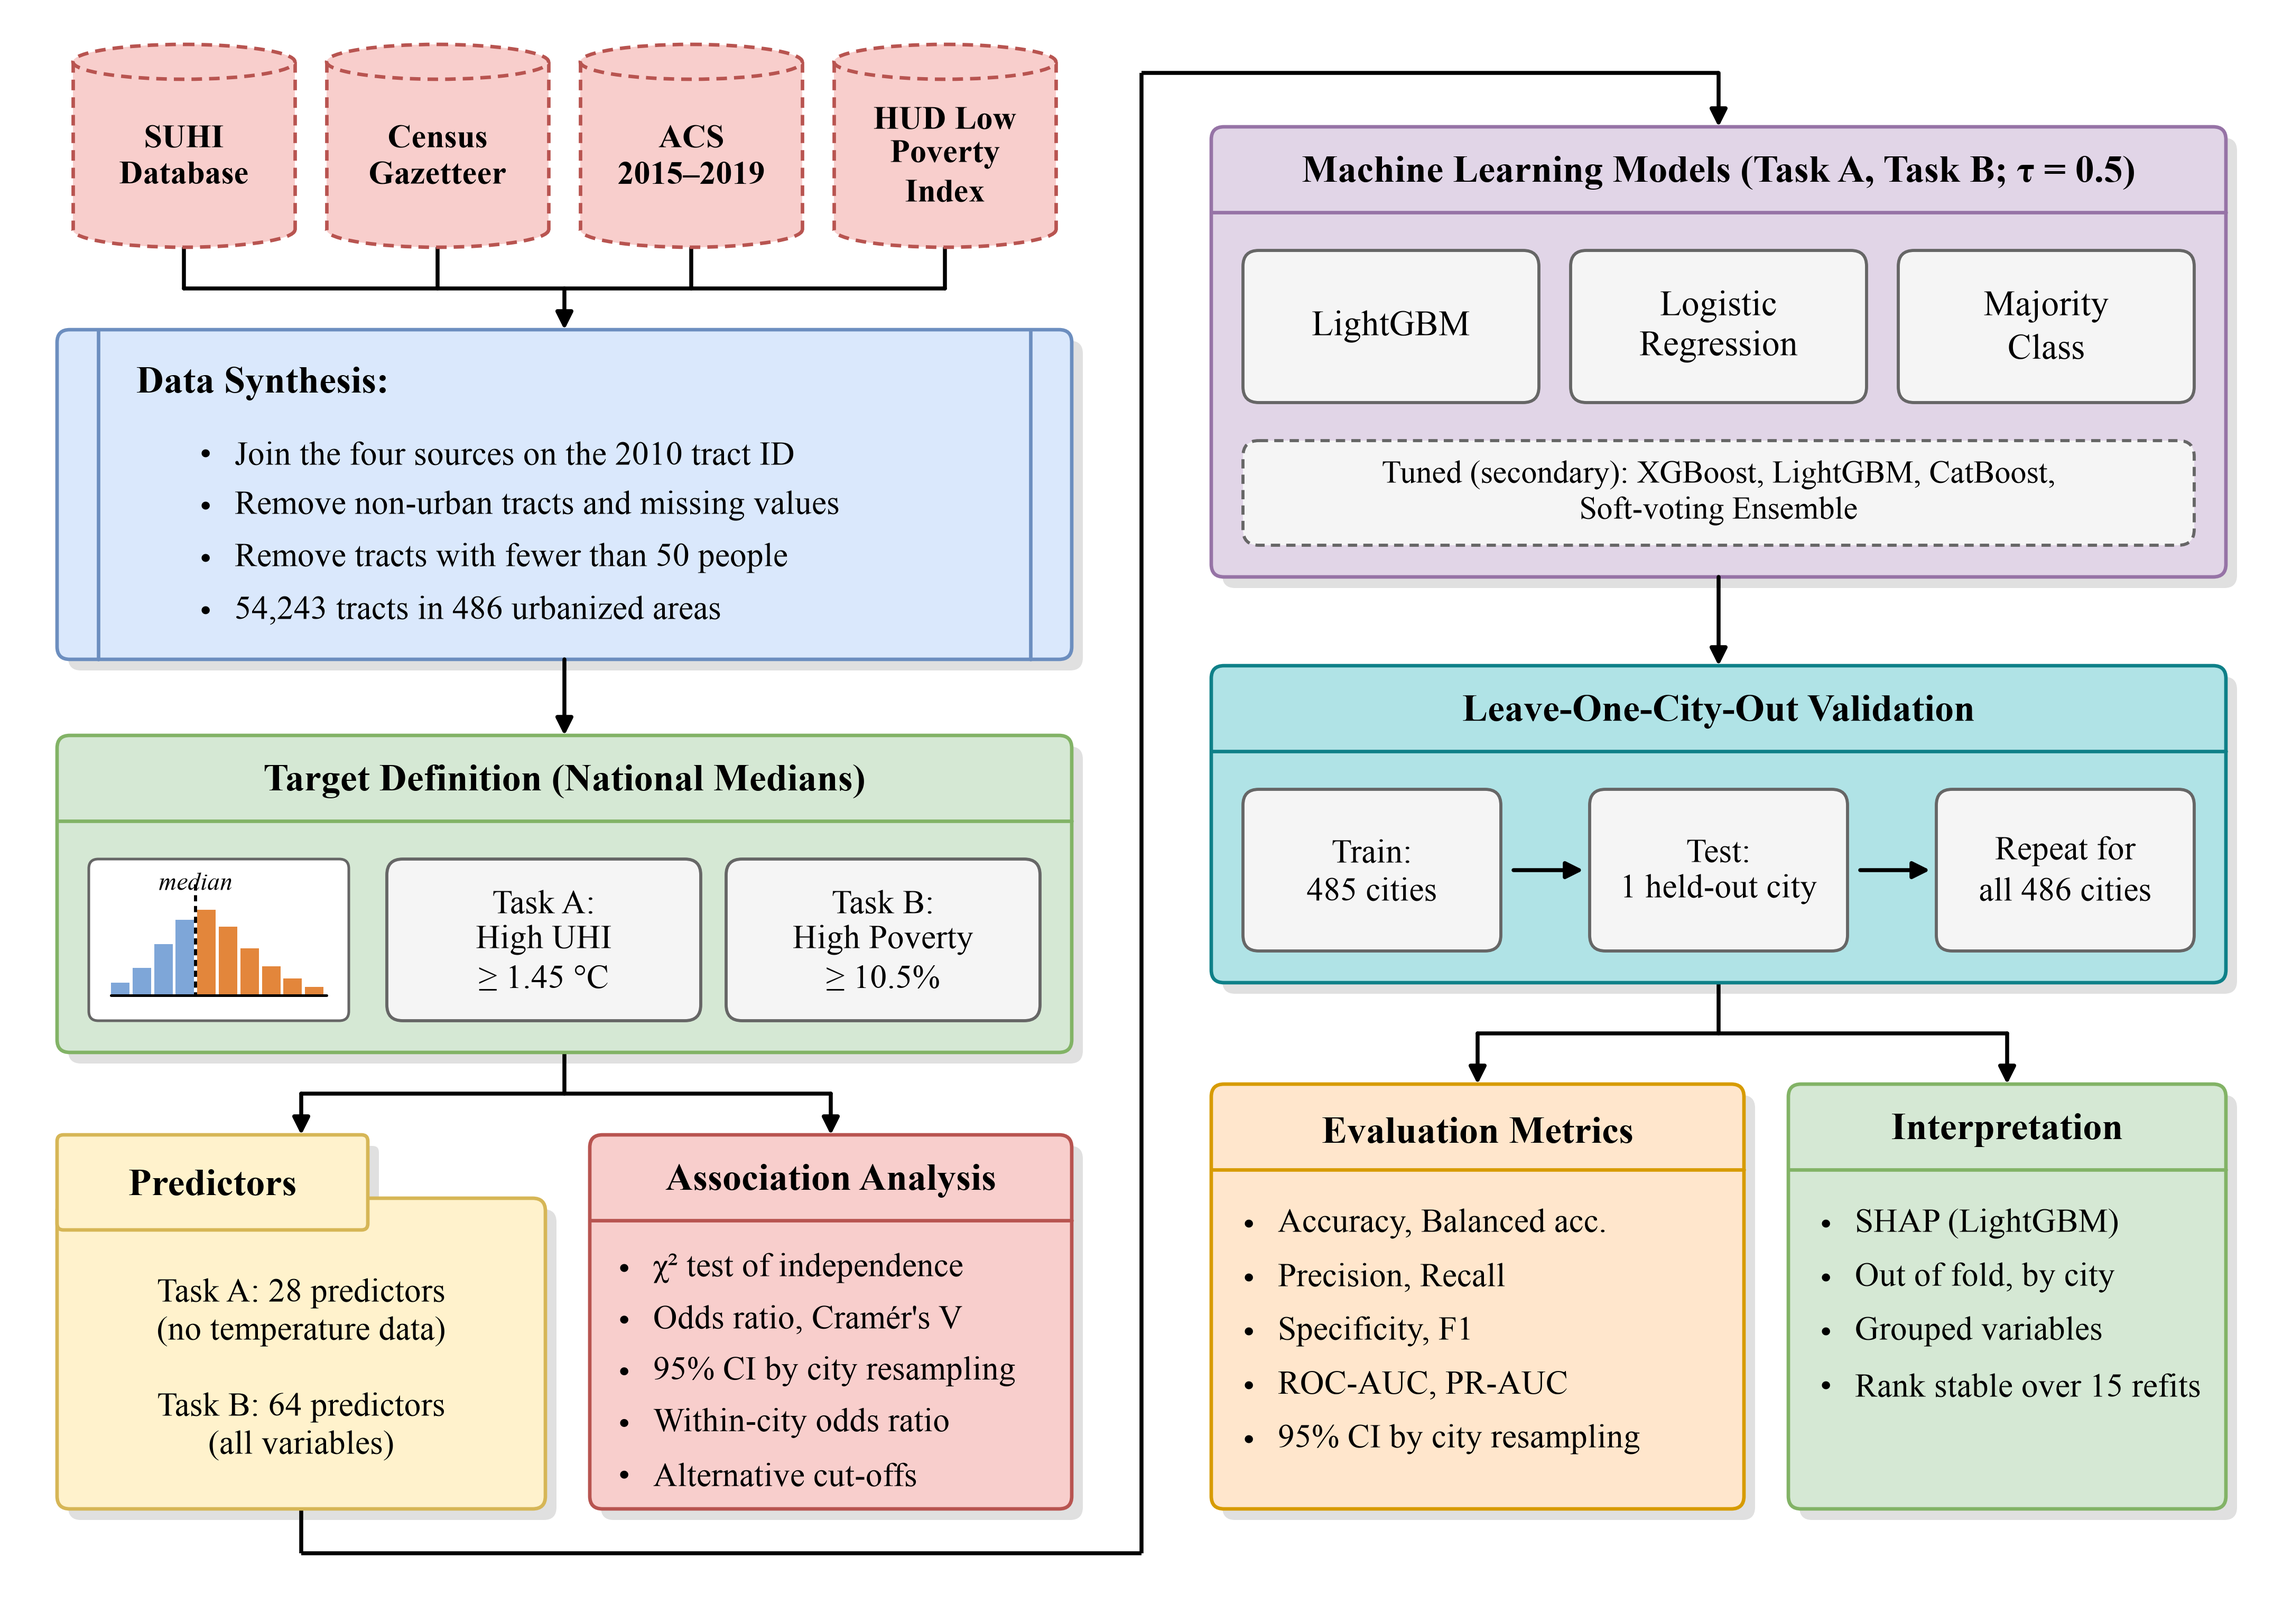
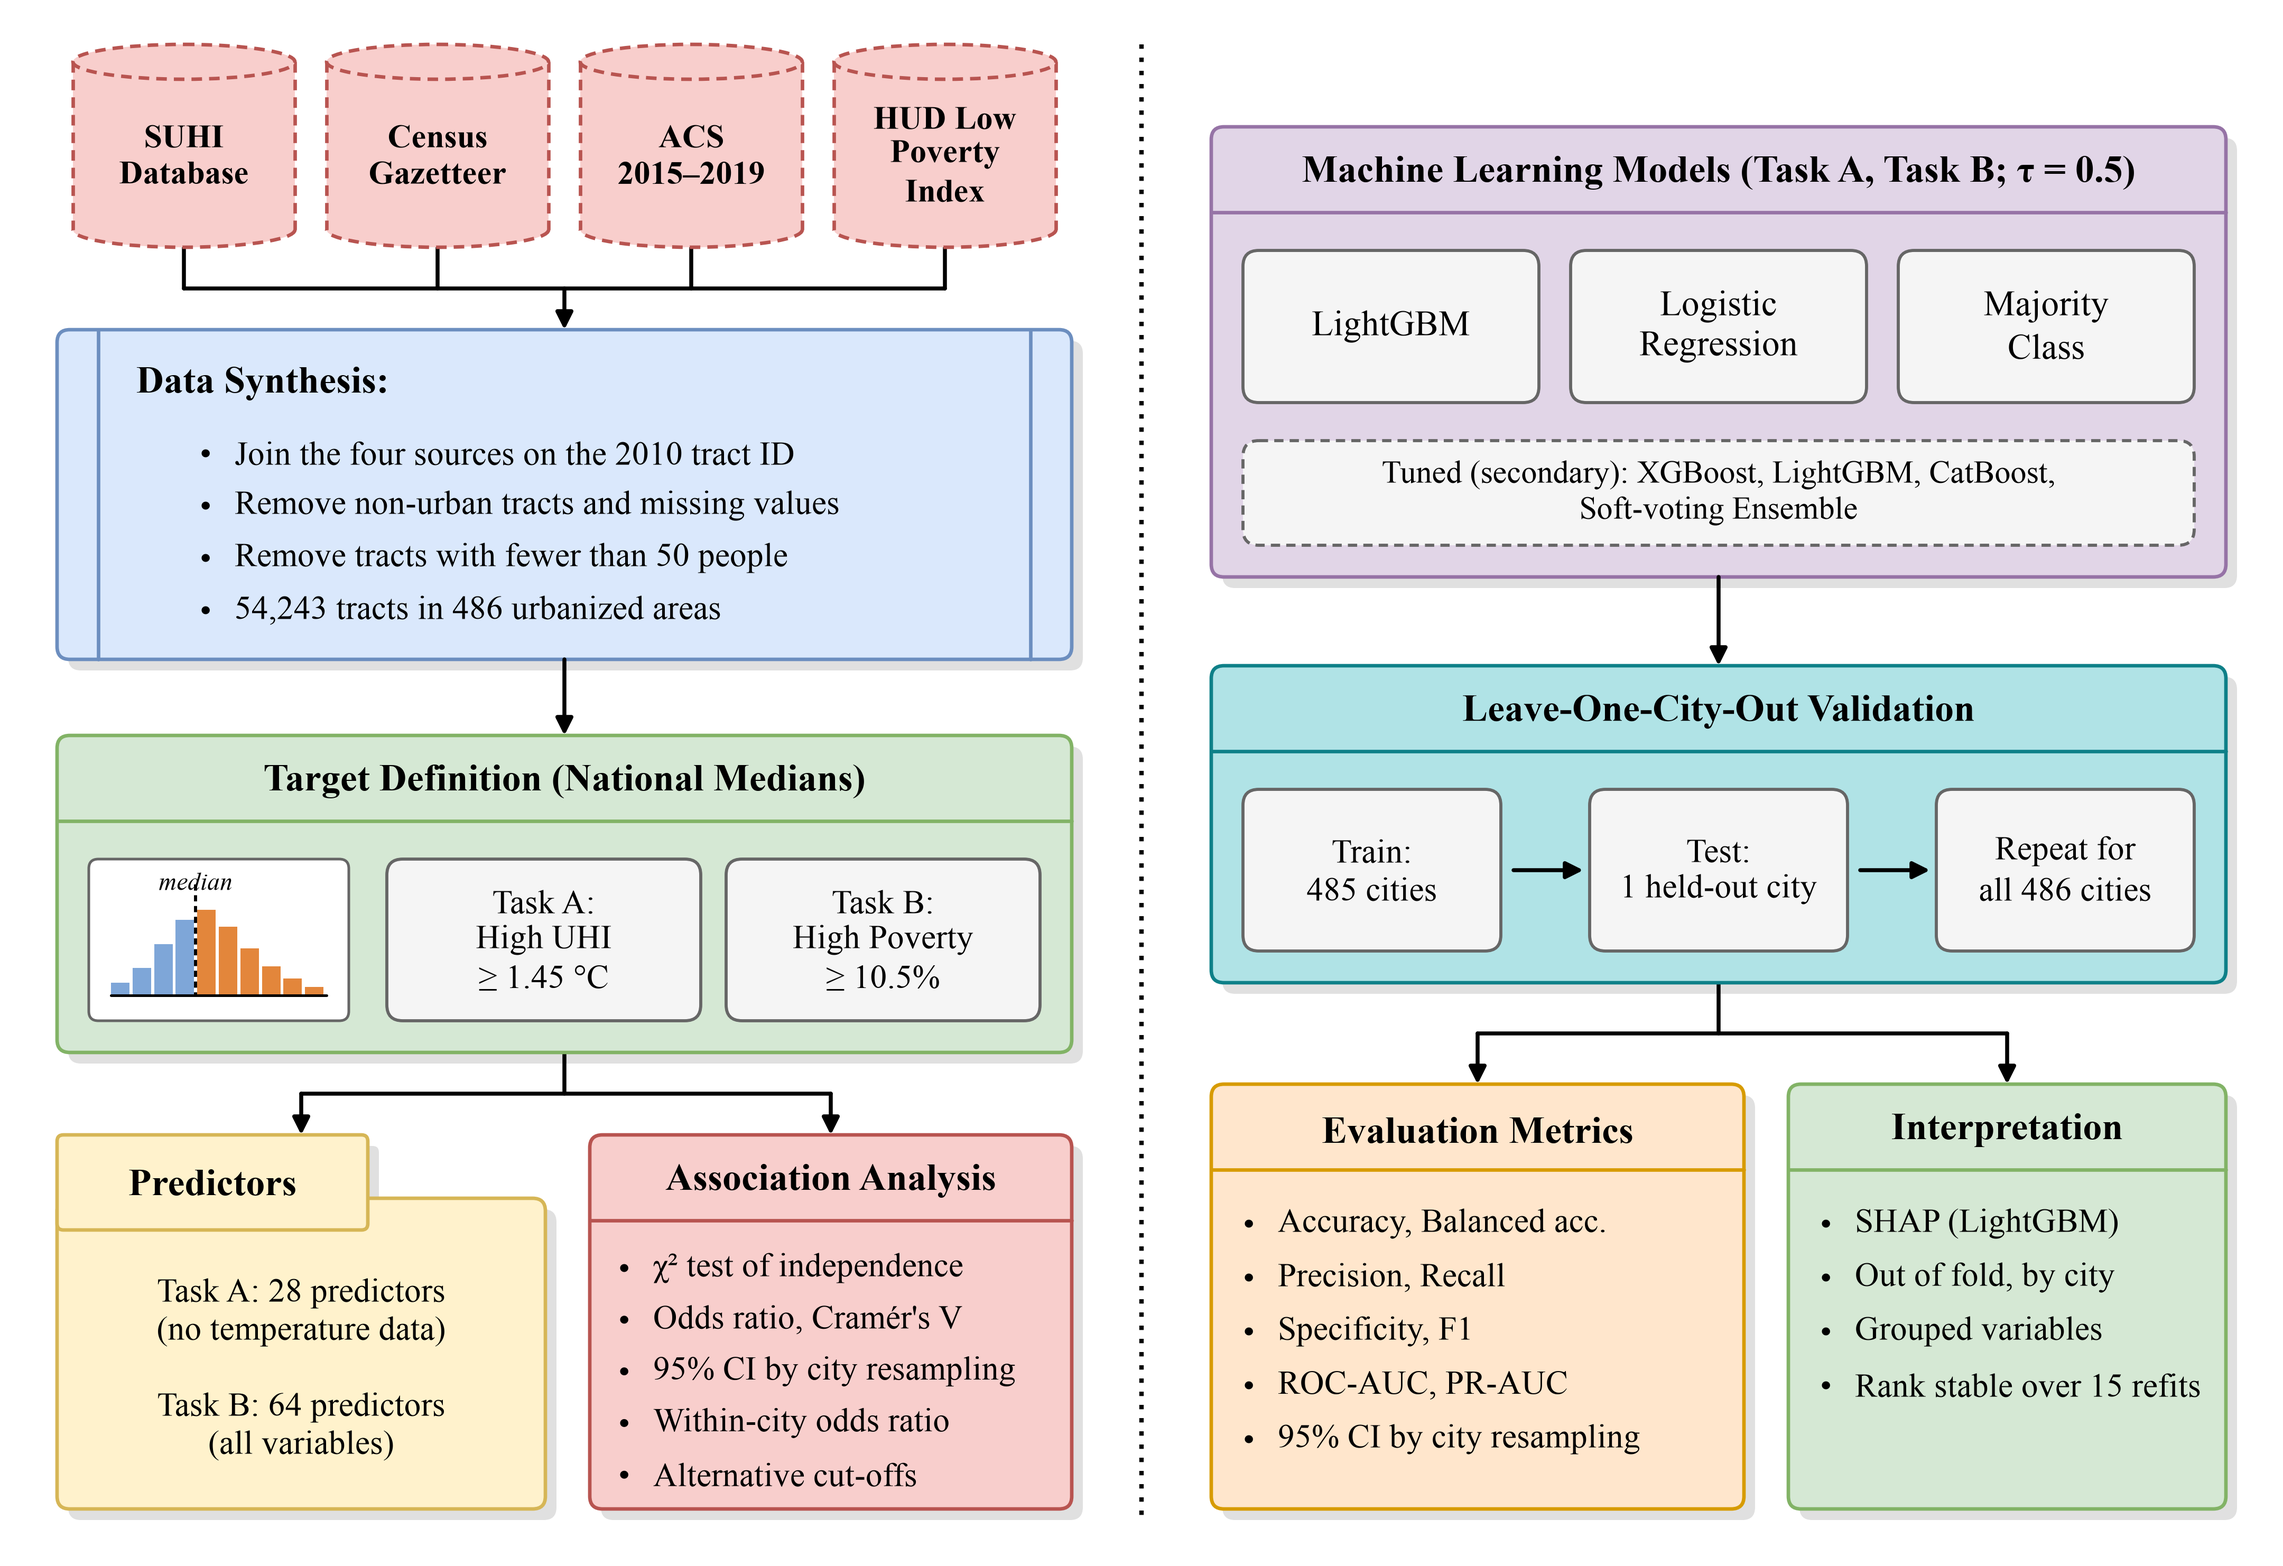
Separate the pipeline diagram's columns with a dotted line
The two columns now read top to bottom on their own, divided by a black
dotted line, instead of being joined by a connector from the predictor
sets to the models.

diff --git a/6_Figures/pipeline.py b/6_Figures/pipeline.py
@@ -21,7 +21,7 @@ from uhi_poverty import features, metrics, models, paths, plotting, report
 
 OUT = paths.results_dir(__file__)
 
-WIDTH, HEIGHT = 7.0, 4.92  # inches; the axes use inches, so font sizes are print sizes
+WIDTH, HEIGHT = 7.0, 4.74  # inches; the axes use inches, so font sizes are print sizes
 SERIF = ["Times New Roman", "Times", "DejaVu Serif"]
 LINE = "#000000"
 INNER_FC, INNER_EC = "#f5f5f5", "#666666"
@@ -245,12 +245,11 @@ def draw(fig, v: dict) -> None:
     arrow(ax, [((L0 + pm) / 2, ysplit), ((L0 + pm) / 2, b0)])
     arrow(ax, [((a0 + L1) / 2, ysplit), ((a0 + L1) / 2, b0)])
 
-    # ---- connector from the predictors to the models (down, across, up, across, down)
+    # ---- dotted separator between the two columns
     m0, m1 = 0.3, 1.72
     mx = (R0 + R1) / 2
     xgap = (L1 + R0) / 2
-    arrow(ax, [((L0 + pm) / 2, b1), ((L0 + pm) / 2, HEIGHT - 0.12), (xgap, HEIGHT - 0.12),
-               (xgap, 0.13), (mx, 0.13), (mx, m0)])
+    ax.plot([xgap, xgap], [0.04, b1 + 0.04], color=LINE, lw=1.0, ls=(0, (1, 2)), zorder=1)
 
     # ---- machine learning models
     y = container(ax, R0, m0, R1, m1, PURPLE,
